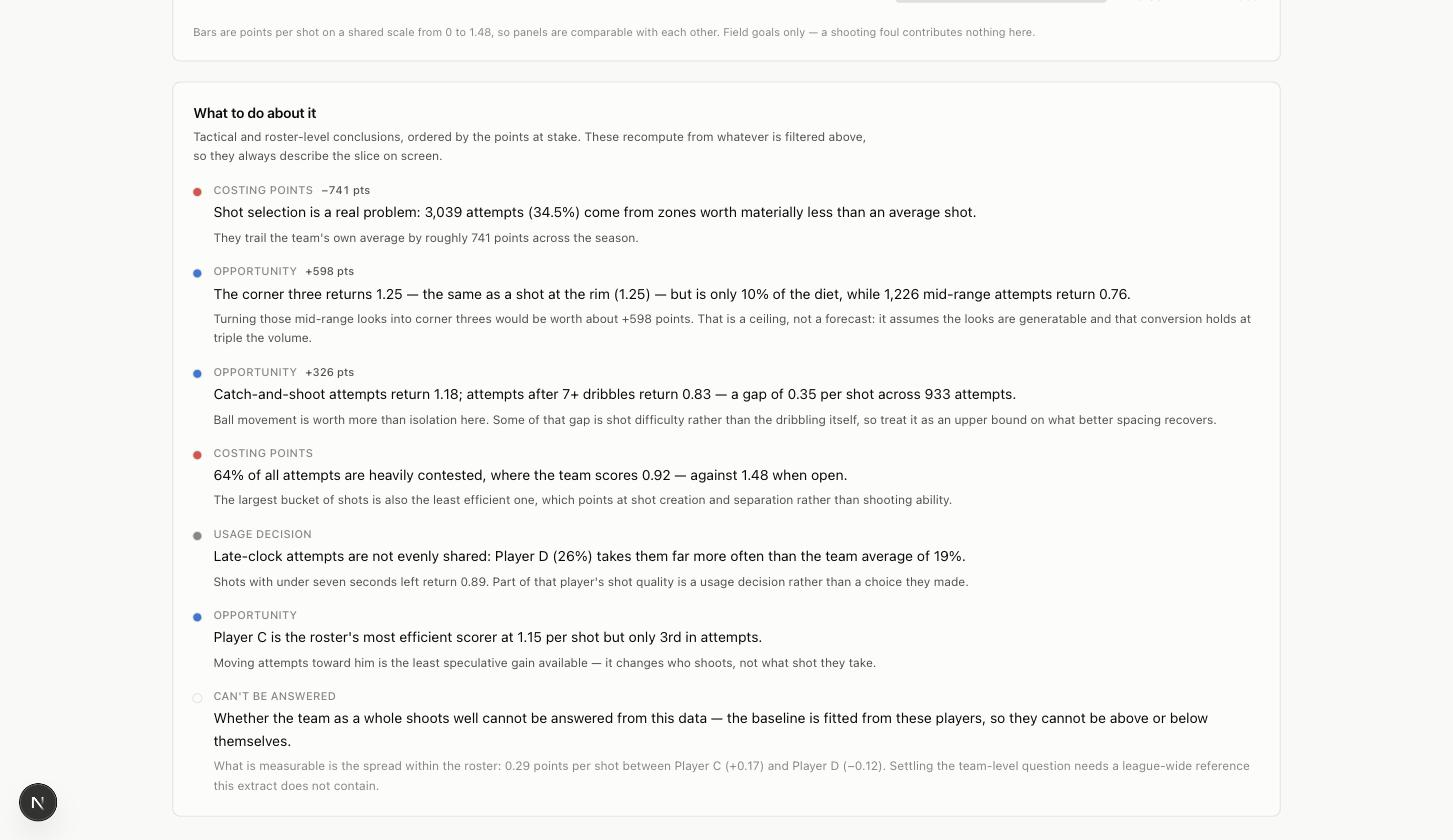
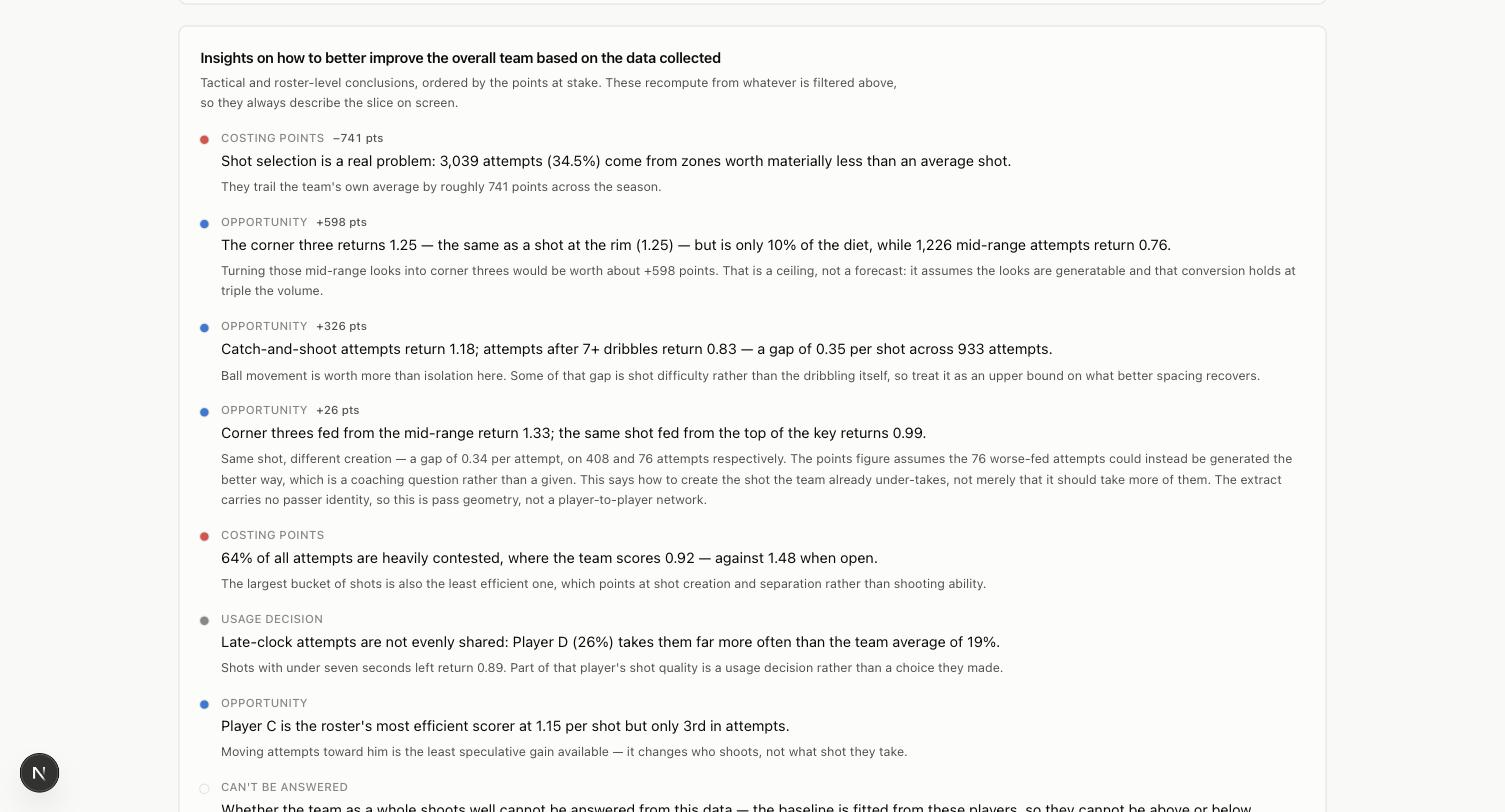
Retitle the insights card
"Insights on how to better improve the overall team based on the data
collected", replacing "What to do about it". Applied to the README heading,
the view-behaviour table, and the card's screenshot.

The error-boundary label shortens to "Insights", since it appears in a
one-line fallback message when the panel fails to render.

Changed region(s): [[0.1239, 0.0308, 0.8672, 1.0], [0.0, 0.9236, 0.031, 0.9852]]

diff --git a/src/components/dashboard.tsx b/src/components/dashboard.tsx
@@ -378,12 +378,12 @@ function DashboardContent({ dataset }: { dataset: ShotDataset }) {
             </Card>
           </ViewErrorBoundary>
 
-          <ViewErrorBoundary name="What to do about it">
+          <ViewErrorBoundary name="Insights">
             <Card
               title={
                 focusedPlayerName
                   ? `${focusedPlayerName} — how he could better serve the offence`
-                  : "What to do about it"
+                  : "Insights on how to better improve the overall team based on the data collected"
               }
               description={
                 focusedPlayerName ? (

diff --git a/README.md b/README.md
@@ -139,7 +139,7 @@ Two more the view surfaces:
   against 1.12 for all other passed threes. The classic action is not producing
   better threes here.
 
-### 5. What to do about it
+### 5. Insights on how to better improve the overall team based on the data collected
 
 ![Team insights](docs/screenshots/06-insights-team.jpg)
 
@@ -207,7 +207,7 @@ Selecting a player does something slightly different in each view, on purpose:
 | Selection vs making | **Emphasises** them; the others stay for context |
 | Context breakdown | Filters to them and draws the team as a benchmark tick |
 | Effect of the last pass | Filters to the passes that fed *his* attempts |
-| What to do about it | Switches from roster-level tactics to that player's role and levers |
+| Insights | Switches from roster-level tactics to that player's role and levers |
 
 The scatter is the exception because filtering a twelve-player comparison down to
 one player leaves nothing to compare — and would strip the baseline of the players
